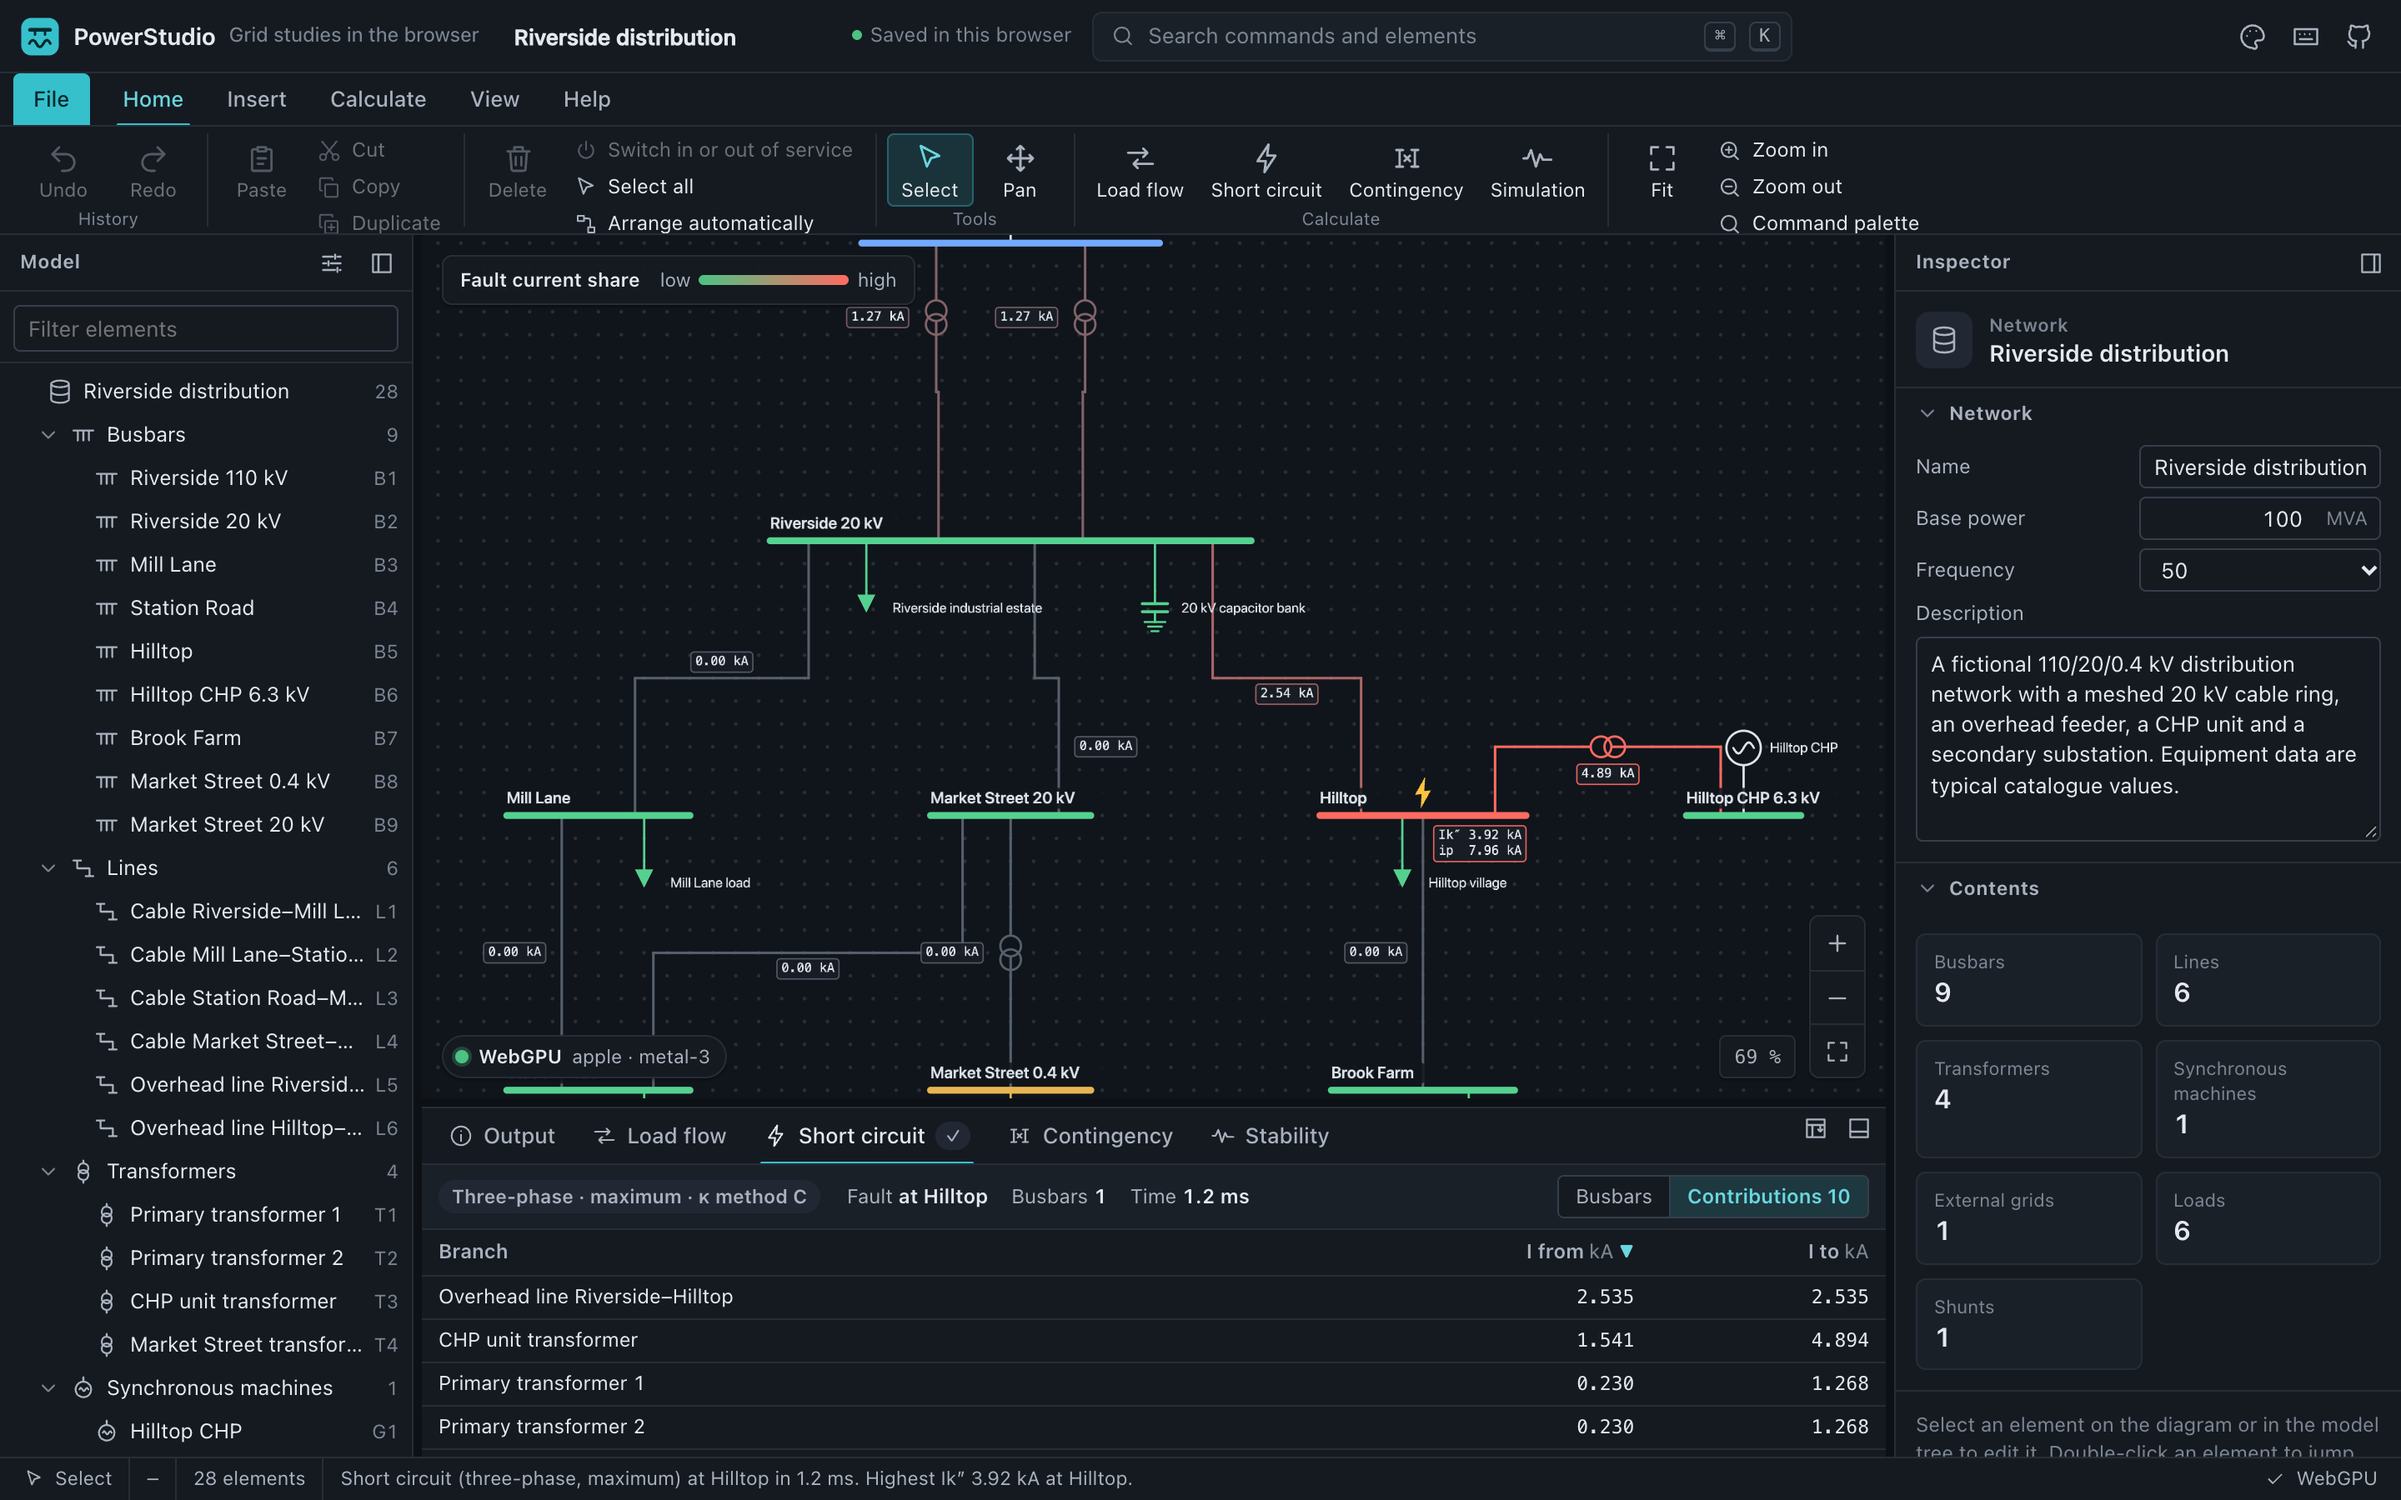
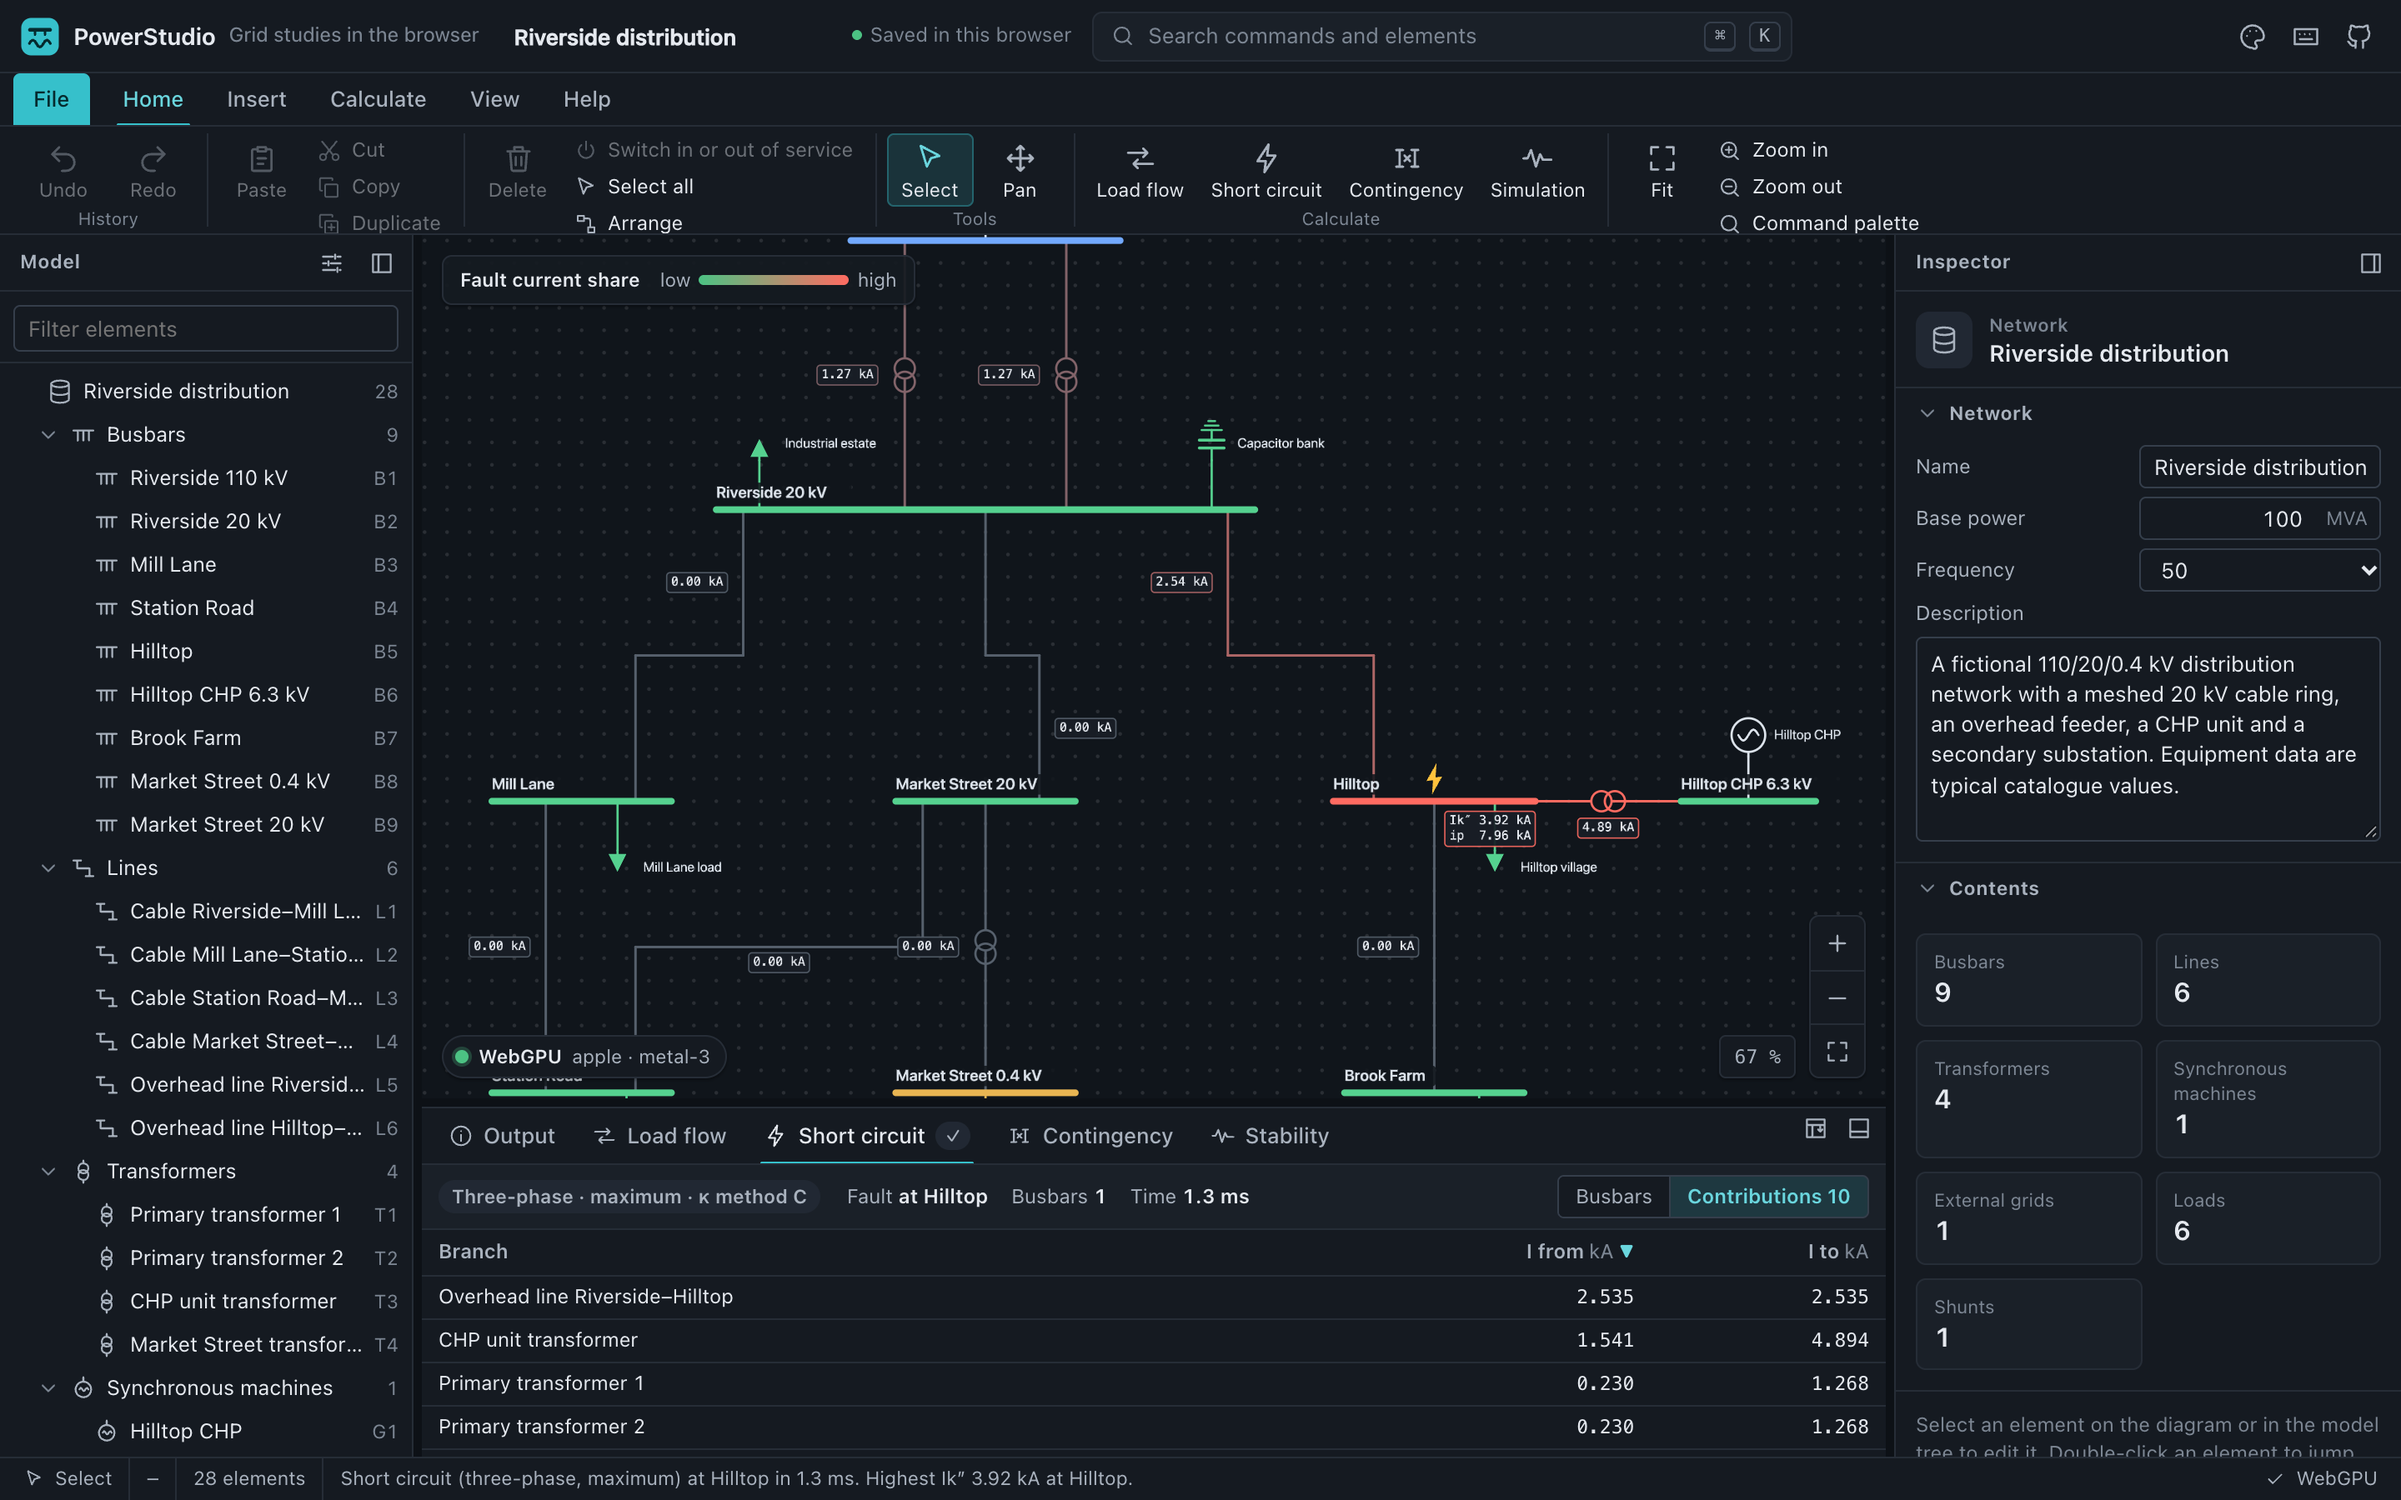
Tidy the Riverside layout, hide zero fault contributions, add a WebGPU probe for CI runners

diff --git a/src/samples/riverside.js b/src/samples/riverside.js
@@ -17,24 +17,24 @@ export function riverside() {
   const E = /** @type {(cls: import('../core/catalog.js').ElementClass, id: string, v: Record<string, unknown>) => void} */
     ((cls, id, v) => { doc.elements.push(makeElement(cls, id, v)); });
 
-  E('bus', 'B1', { name: 'Riverside 110 kV', vn: 110, x: -120, y: -380, len: 260, vmin: 0.95, vmax: 1.1, zone: '110 kV' });
-  E('bus', 'B2', { name: 'Riverside 20 kV', vn: 20, x: -120, y: -120, len: 420, vmin: 0.97, vmax: 1.05, zone: '20 kV' });
-  E('bus', 'B3', { name: 'Mill Lane', vn: 20, x: -480, y: 120, len: 160, vmin: 0.95, vmax: 1.05, zone: '20 kV' });
-  E('bus', 'B4', { name: 'Station Road', vn: 20, x: -480, y: 360, len: 160, vmin: 0.95, vmax: 1.05, zone: '20 kV' });
-  E('bus', 'B5', { name: 'Hilltop', vn: 20, x: 240, y: 120, len: 180, vmin: 0.95, vmax: 1.05, zone: '20 kV' });
-  E('bus', 'B6', { name: 'Hilltop CHP 6.3 kV', vn: 6.3, x: 520, y: 120, len: 100, vmin: 0.95, vmax: 1.05, zone: 'Generation' });
-  E('bus', 'B7', { name: 'Brook Farm', vn: 20, x: 240, y: 360, len: 160, vmin: 0.95, vmax: 1.05, zone: '20 kV' });
-  E('bus', 'B8', { name: 'Market Street 0.4 kV', vn: 0.4, x: -120, y: 360, len: 140, vmin: 0.9, vmax: 1.1, zone: '0.4 kV' });
-  E('bus', 'B9', { name: 'Market Street 20 kV', vn: 20, x: -120, y: 120, len: 140, vmin: 0.95, vmax: 1.05, zone: '20 kV' });
+  E('bus', 'B1', { name: 'Riverside 110 kV', vn: 110, x: 0, y: -380, len: 240, vmin: 0.95, vmax: 1.1, zone: '110 kV' });
+  E('bus', 'B2', { name: 'Riverside 20 kV', vn: 20, x: 0, y: -140, len: 480, vmin: 0.97, vmax: 1.05, zone: '20 kV' });
+  E('bus', 'B3', { name: 'Mill Lane', vn: 20, x: -360, y: 120, len: 160, vmin: 0.95, vmax: 1.05, zone: '20 kV' });
+  E('bus', 'B4', { name: 'Station Road', vn: 20, x: -360, y: 380, len: 160, vmin: 0.95, vmax: 1.05, zone: '20 kV' });
+  E('bus', 'B5', { name: 'Hilltop', vn: 20, x: 400, y: 120, len: 180, vmin: 0.95, vmax: 1.05, zone: '20 kV' });
+  E('bus', 'B6', { name: 'Hilltop CHP 6.3 kV', vn: 6.3, x: 680, y: 120, len: 120, vmin: 0.95, vmax: 1.05, zone: 'Generation' });
+  E('bus', 'B7', { name: 'Brook Farm', vn: 20, x: 400, y: 380, len: 160, vmin: 0.95, vmax: 1.05, zone: '20 kV' });
+  E('bus', 'B8', { name: 'Market Street 0.4 kV', vn: 0.4, x: 0, y: 380, len: 160, vmin: 0.9, vmax: 1.1, zone: '0.4 kV' });
+  E('bus', 'B9', { name: 'Market Street 20 kV', vn: 20, x: 0, y: 120, len: 160, vmin: 0.95, vmax: 1.05, zone: '20 kV' });
 
   E('extgrid', 'X1', { name: 'Grid infeed', bus: 'B1', vset: 1.02, angle: 0, skMax: 3000, skMin: 2000, rxMax: 0.1, rxMin: 0.12, x0x1: 1.0, r0x0: 0.1, pos: 0, side: 'above' });
 
   const primary = { sn: 40, vnHV: 110, vnLV: 20, uk: 12, ur: 0.4, i0: 0.05, pfe: 20, vectorGroup: 'YNyn0', uk0: 12, ur0: 0.4,
     tapStep: 1.25, tapPos: 0, tapNeutral: 0, tapMin: -9, tapMax: 9 };
-  E('trafo', 'T1', { ...primary, name: 'Primary transformer 1', hv: 'B1', lv: 'B2', hvPos: -0.25, lvPos: -0.15 });
-  E('trafo', 'T2', { ...primary, name: 'Primary transformer 2', hv: 'B1', lv: 'B2', hvPos: 0.25, lvPos: 0.15 });
+  E('trafo', 'T1', { ...primary, name: 'Primary transformer 1', hv: 'B1', lv: 'B2', hvPos: -0.3, lvPos: -0.15 });
+  E('trafo', 'T2', { ...primary, name: 'Primary transformer 2', hv: 'B1', lv: 'B2', hvPos: 0.3, lvPos: 0.15 });
   E('trafo', 'T3', { name: 'CHP unit transformer', hv: 'B5', lv: 'B6', sn: 12.5, vnHV: 20, vnLV: 6.3, uk: 8, ur: 0.6, i0: 0.2, pfe: 8,
-    vectorGroup: 'YNd5', uk0: 8, ur0: 0.6, tapStep: 2.5, tapPos: 0, tapNeutral: 0, tapMin: -2, tapMax: 2, hvPos: 0.35, lvPos: -0.2 });
+    vectorGroup: 'YNd5', uk0: 8, ur0: 0.6, tapStep: 2.5, tapPos: 0, tapNeutral: 0, tapMin: -2, tapMax: 2, hvPos: 0.5, lvPos: -0.5, bend: 60 });
   E('trafo', 'T4', { name: 'Market Street transformer', hv: 'B9', lv: 'B8', sn: 0.63, vnHV: 20, vnLV: 0.4, uk: 6, ur: 1.03, i0: 0.3, pfe: 1.0,
     vectorGroup: 'Dyn5', uk0: 6, ur0: 1.03, tapStep: 2.5, tapPos: 0, tapNeutral: 0, tapMin: -2, tapMax: 2, hvPos: 0, lvPos: 0 });
 
@@ -42,22 +42,22 @@ export function riverside() {
   const cable = { r1: 0.125, x1: 0.11, b1: 125.66, r0: 0.5, x0: 0.33, b0: 125.66, ratedA: 0.42, parallel: 1 };
   // 20 kV overhead line, Al/St 95/15: R′ 0.306 Ω/km, X′ 0.35 Ω/km, B′ 3.3 µS/km.
   const overhead = { r1: 0.306, x1: 0.35, b1: 3.3, r0: 0.46, x0: 1.25, b0: 1.5, ratedA: 0.33, parallel: 1 };
-  E('line', 'L1', { ...cable, name: 'Cable Riverside–Mill Lane', from: 'B2', to: 'B3', length: 4.2, fromPos: -0.42, toPos: 0.2 });
+  E('line', 'L1', { ...cable, name: 'Cable Riverside–Mill Lane', from: 'B2', to: 'B3', length: 4.2, fromPos: -0.45, toPos: 0.3 });
   E('line', 'L2', { ...cable, name: 'Cable Mill Lane–Station Road', from: 'B3', to: 'B4', length: 2.6, fromPos: -0.2, toPos: -0.2 });
-  E('line', 'L3', { ...cable, name: 'Cable Station Road–Market Street', from: 'B4', to: 'B9', length: 3.1, fromPos: 0.3, toPos: -0.3 });
-  E('line', 'L4', { ...cable, name: 'Cable Market Street–Riverside', from: 'B9', to: 'B2', length: 1.8, fromPos: 0.3, toPos: 0.05 });
-  E('line', 'L5', { ...overhead, name: 'Overhead line Riverside–Hilltop', from: 'B2', to: 'B5', length: 9.5, fromPos: 0.42, toPos: -0.3 });
+  E('line', 'L3', { ...cable, name: 'Cable Station Road–Market Street', from: 'B4', to: 'B9', length: 3.1, fromPos: 0.3, toPos: -0.35 });
+  E('line', 'L4', { ...cable, name: 'Cable Market Street–Riverside', from: 'B9', to: 'B2', length: 1.8, fromPos: 0.3, toPos: 0 });
+  E('line', 'L5', { ...overhead, name: 'Overhead line Riverside–Hilltop', from: 'B2', to: 'B5', length: 9.5, fromPos: 0.45, toPos: -0.3 });
   E('line', 'L6', { ...overhead, name: 'Overhead line Hilltop–Brook Farm', from: 'B5', to: 'B7', length: 6.4, fromPos: 0, toPos: 0 });
 
   E('gen', 'G1', { name: 'Hilltop CHP', bus: 'B6', mode: 'PV', p: 8, q: 0, vset: 1.02, qmin: -4, qmax: 6, sn: 10, vn: 6.3, cosphi: 0.8,
     xdss: 0.14, rs: 0.006, xdt: 0.22, h: 2.8, damping: 0, pos: 0, side: 'above' });
-  E('load', 'D1', { name: 'Mill Lane load', bus: 'B3', p: 6.5, q: 2.1, pos: 0.25, side: 'below' });
+  E('load', 'D1', { name: 'Mill Lane load', bus: 'B3', p: 6.5, q: 2.1, pos: 0.2, side: 'below' });
   E('load', 'D2', { name: 'Station Road load', bus: 'B4', p: 4.8, q: 1.6, pos: 0.25, side: 'below' });
-  E('load', 'D3', { name: 'Hilltop village', bus: 'B5', p: 3.2, q: 1.0, pos: -0.1, side: 'below' });
+  E('load', 'D3', { name: 'Hilltop village', bus: 'B5', p: 3.2, q: 1.0, pos: 0.3, side: 'below' });
   E('load', 'D4', { name: 'Brook Farm load', bus: 'B7', p: 2.4, q: 0.9, pos: 0.25, side: 'below' });
   E('load', 'D5', { name: 'Market Street shops', bus: 'B8', p: 0.42, q: 0.14, pos: 0, side: 'below' });
-  E('load', 'D6', { name: 'Riverside industrial estate', bus: 'B2', p: 9.0, q: 3.6, pos: -0.3, side: 'below' });
-  E('shunt', 'S1', { name: '20 kV capacitor bank', bus: 'B2', q: 3, p: 0, vn: 20, pos: 0.3, side: 'below' });
+  E('load', 'D6', { name: 'Industrial estate', bus: 'B2', p: 9.0, q: 3.6, pos: -0.42, side: 'above' });
+  E('shunt', 'S1', { name: 'Capacitor bank', bus: 'B2', q: 3, p: 0, vn: 20, pos: 0.42, side: 'above' });
 
   doc.study.shortcircuit.location = 'B5';
   doc.study.rms = { tEnd: 2, dt: 0.001, events: [

diff --git a/src/app.js b/src/app.js
@@ -498,6 +498,15 @@ export class App {
     this.tryEdit('Switch', () => this.store.transact(on ? 'Switch into service' : 'Switch out of service', tx => { for (const e of els) tx.set(/** @type {Element} */ (e).id, 'inService', on); }));
   }
 
+  /** Lays the whole diagram out again from the topology, as one undoable step. */
+  arrange() {
+    const doc = structuredClone(this.store.doc);
+    autoLayout(doc);
+    const keys = ['x', 'y', 'len', 'orient', 'fromPos', 'toPos', 'hvPos', 'lvPos', 'pos', 'side', 'bend'];
+    this.store.transact('Arrange diagram', tx => { for (const el of doc.elements) for (const k of keys) if (k in el && this.store.get(el.id)?.[k] !== el[k]) tx.set(el.id, k, el[k]); });
+    this.viewport.fit();
+  }
+
   /** @param {number} dx @param {number} dy */
   nudge(dx, dy) {
     const buses = [...this.selection].map(id => this.store.get(id)).filter(e => e?.cls === 'bus');
@@ -814,13 +823,7 @@ export class App {
       c.add({ id: `edit.nudge${key}`, label: `Move ${key.slice(5).toLowerCase()}`, group: 'Edit', keys: [key], palette: false, run: () => this.nudge(dx, dy) });
       c.add({ id: `edit.nudgeFar${key}`, label: `Move ${key.slice(5).toLowerCase()} far`, group: 'Edit', keys: [`Shift+${key}`], palette: false, run: () => this.nudge(dx * 5, dy * 5) });
     }
-    c.add({ id: 'layout.arrange', label: 'Arrange automatically', icon: 'layout', group: 'Edit', hint: 'Lay the diagram out again from the network topology', run: () => {
-      const doc = structuredClone(this.store.doc);
-      autoLayout(doc);
-      const keys = ['x', 'y', 'len', 'orient', 'fromPos', 'toPos', 'hvPos', 'lvPos', 'pos', 'side', 'bend'];
-      this.store.transact('Arrange diagram', tx => { for (const el of doc.elements) for (const k of keys) if (k in el && this.store.get(el.id)?.[k] !== el[k]) tx.set(el.id, k, el[k]); });
-      this.viewport.fit();
-    } });
+    c.add({ id: 'layout.arrange', label: 'Arrange', icon: 'layout', group: 'Edit', hint: 'Lay the diagram out again from the network topology', run: () => this.arrange() });
     // Tools
     tool('select', 'Select', 'select', 'V', 'Select and move elements');
     tool('pan', 'Pan', 'pan', 'H', 'Drag to move the view; you can also hold Space');

diff --git a/src/ui/ribbon.js b/src/ui/ribbon.js
@@ -25,7 +25,7 @@ export const TABS = [
     { label: 'Branches', items: [{ cmd: 'tool.line', size: 'large' }, { cmd: 'tool.trafo', size: 'large' }] },
     { label: 'Sources', items: [{ cmd: 'tool.gen', size: 'large' }, { cmd: 'tool.extgrid', size: 'large' }] },
     { label: 'Consumers', items: [{ cmd: 'tool.load', size: 'large' }, { cmd: 'tool.shunt', size: 'large' }] },
-    { label: 'Networks', items: [{ cmd: 'file.import', size: 'large' }, { stack: ['layout.arrange', 'tool.select'] }] },
+    { label: 'Networks', items: [{ cmd: 'file.import', size: 'large' }, { cmd: 'layout.arrange', size: 'large' }] },
   ] },
   { id: 'calculate', label: 'Calculate', groups: [
     { label: 'Steady state', items: [{ cmd: 'calc.loadflow', size: 'large' }, { stack: ['calc.autoLoadFlow', 'calc.qlimits', 'calc.dcStart'] }] },

diff --git a/src/ui/overlay.js b/src/ui/overlay.js
@@ -74,6 +74,7 @@ export function buildOverlay(kind, result, doc, P, opt) {
     const maxC = Math.max(1e-9, ...r.contributions.map(c => Math.max(c.iFrom, c.iTo)));
     for (const c of r.contributions) {
       const i = Math.max(c.iFrom, c.iTo);
+      if (i < 0.005) continue; // branches the fault current does not reach
       elements.set(c.id, { mid: `${fixed(i, 2)} kA`, color: colour ? mix(P.muted, P.res.high, Math.min(1, i / maxC)) : undefined });
     }
     if (colour) legend = { kind: 'ramp', title: r.location ? 'Fault current share' : 'Initial short-circuit current', stops: [P.res.ok, P.res.high], from: 'low', to: 'high' };

diff --git a/style.css b/style.css
@@ -637,6 +637,7 @@ table.grid td.muted { color: var(--text-3); }
 }
 @media (max-width: 760px) {
   .mobile-only { display: inline-flex; }
+  .center { grid-template-rows: minmax(0, 1fr) 5px min(var(--dock-h), 34vh); }
   .workspace { grid-template-columns: 0 0 minmax(0, 1fr) 0 0 !important; position: relative; }
   .splitter-v { display: none; }
   .panel-left, .panel-right { position: absolute; top: 0; bottom: 0; width: min(320px, 86vw); z-index: 20; box-shadow: var(--shadow-2); visibility: visible !important; }
